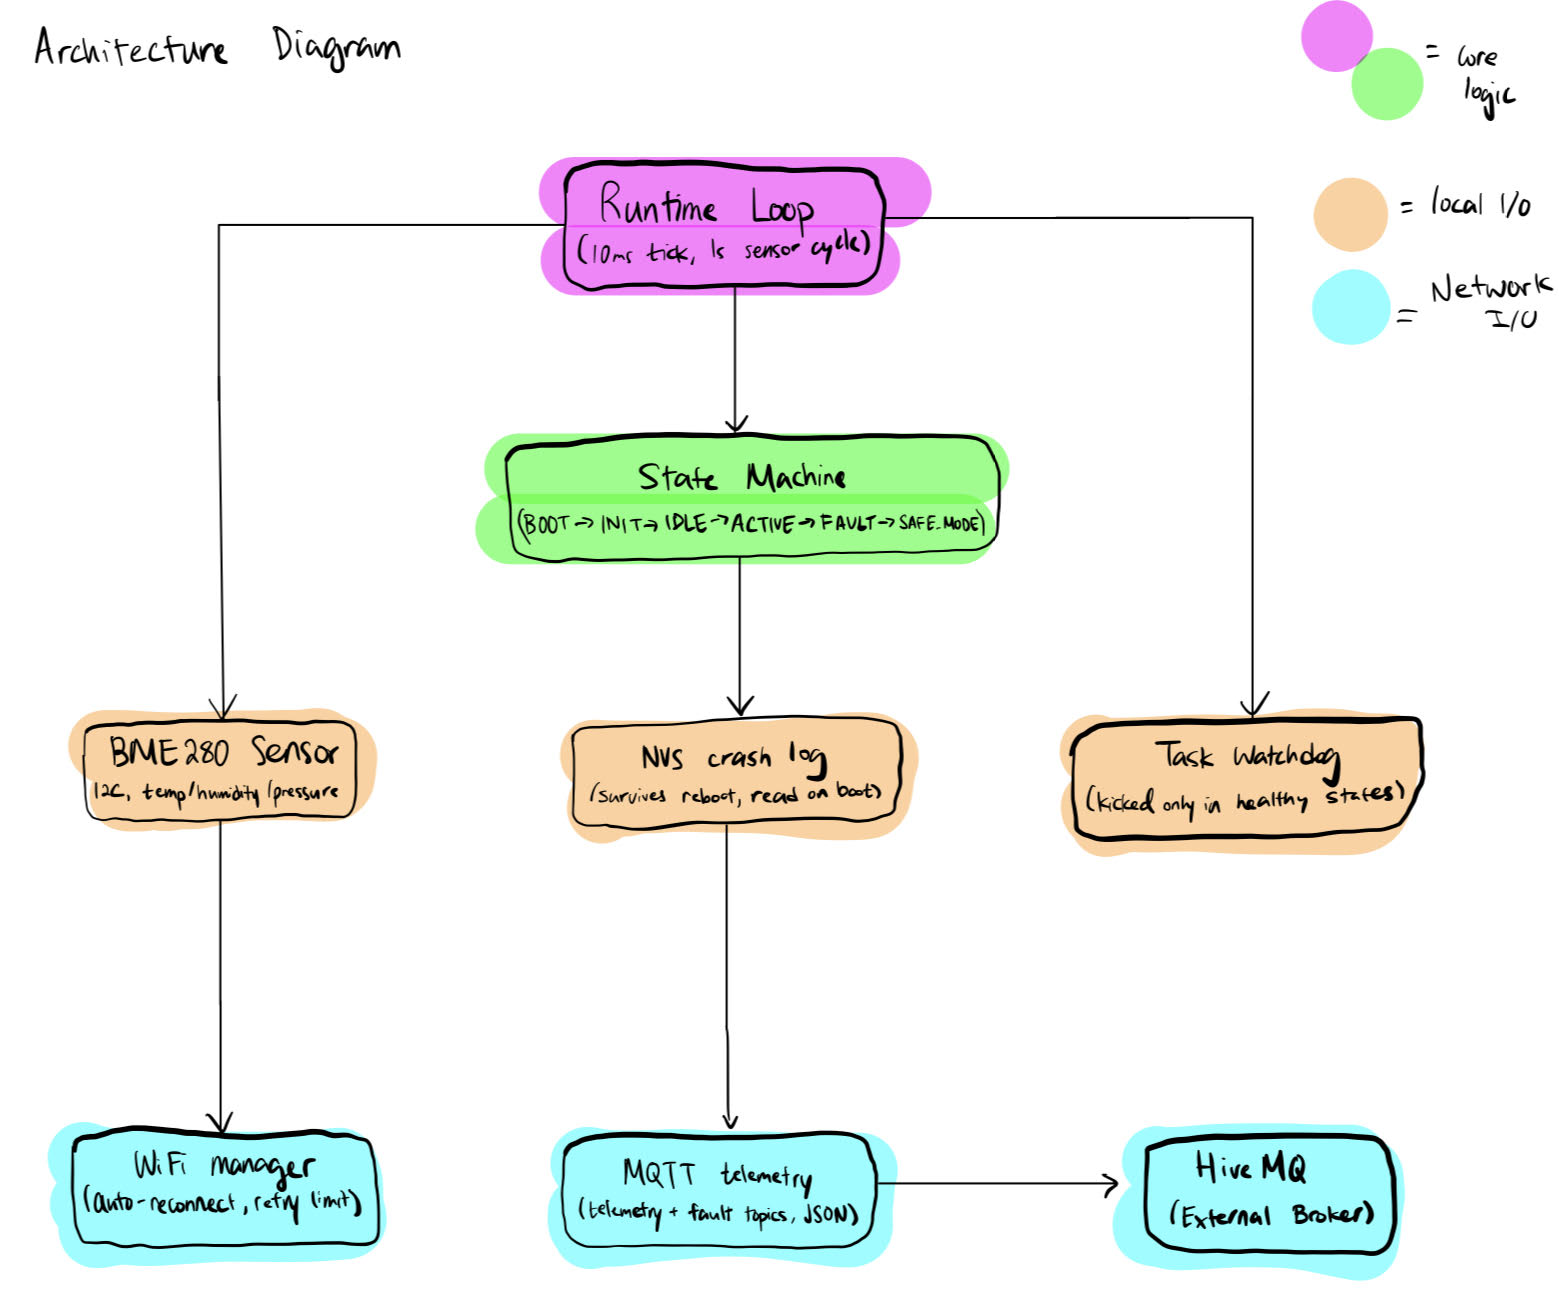
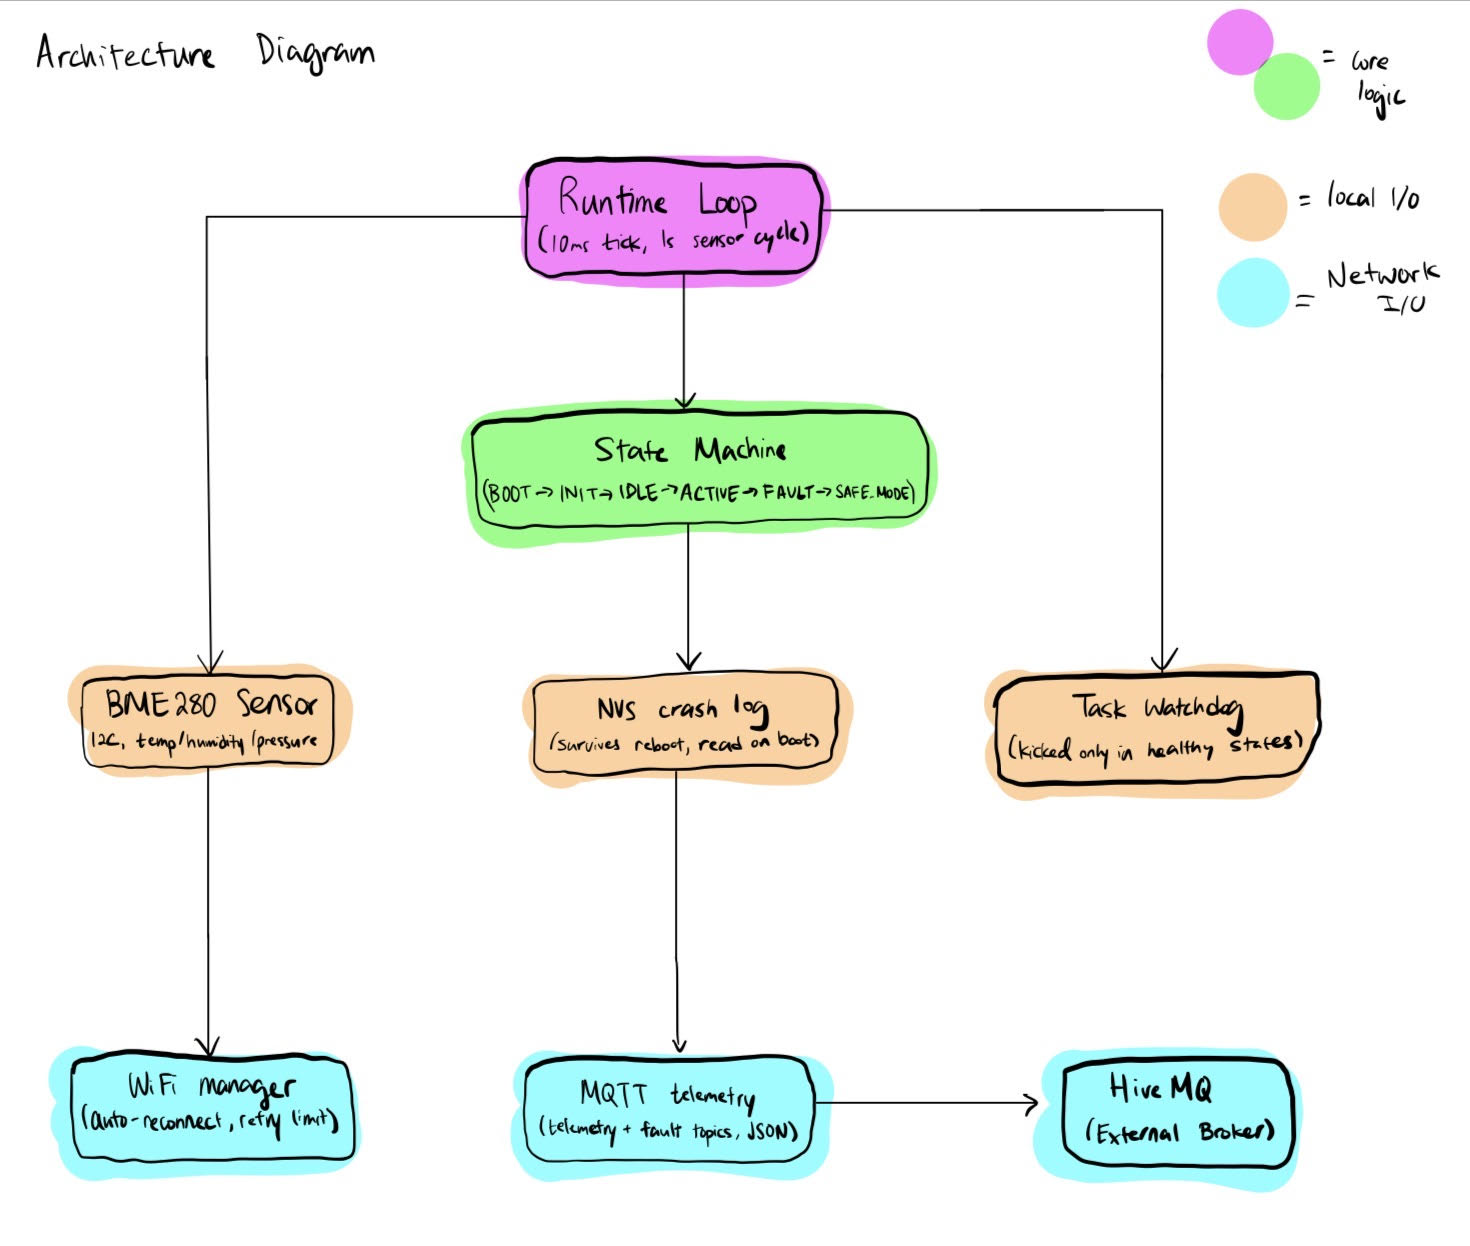
doc: add demo video in README

diff --git a/README.md b/README.md
@@ -2,9 +2,16 @@
 
 A fault-tolerant ESP32 firmware node built on ESP-IDF, designed to run unattended and recover from sensor failures, and report telemetry over MQTT.
 
-## Demo
+## Demo (redirect to Youtube)
 
-[to be added soon...]
+[![Watch the video](https://img.youtube.com/vi/mXEJEMtZkKM/maxresdefault.jpg)](https://youtu.be/mXEJEMtZkKM)
+
+## Features
+- Temperature, humidity, and pressure sensor(BM280) integration over I2C
+- Fault escalation: 3 consecutive sensor failures trigger SAFE_MODE and a controlled reboot
+- Crash records persisted to NVS flash - survive power loss, printed on next boot
+- MQTT telemetry published every second ('headless_node_tjcdy/telemetry', 'headless_node_tjcdy/fault')
+- WiFi auto-reconnect with bounded retry and graceful disconnect
 
 ## Architecture
 
@@ -15,13 +22,6 @@ A fault-tolerant ESP32 firmware node built on ESP-IDF, designed to run unattende
 ![State diagram](docs/state_diagram.jpg)
 
 The watchdog is intentionally NOT kicked while in FAULT or SAFE_MODE. If the system can't recover within the watchdog window, the hardware forces a reboot.
-
-## Features
-- Temperature, humidity, and pressure sensor(BM280) integration over I2C
-- Fault escalation: 3 consecutive sensor failures trigger SAFE_MODE and a controlled reboot
-- Crash records persisted to NVS flash - survive power loss, printed on next boot
-- MQTT telemetry published every second ('headless_node_tjcdy/telemetry', 'headless_node_tjcdy/fault')
-- WiFi auto-reconnect with bounded retry and graceful disconnect
 
 ## Hardware
 - ESP32-WROOM-32E
@@ -38,8 +38,12 @@ idf.py -p <PORT> flash monitor
 \`\`\`
 
 ## What I learned
-I tested my fault-handling logic by removing my BM280 sensor mid-run, but the Task Watchdog Timer fired before my fault logic could finish executing. I realized that a blocking I2C call inside the main loop was starving the watchdog timer before the fault-handling logic ever got a chance to run. I resolved this by increasing the watchdog timeout from 5 seconds to 30 seconds, and by tightening the state system during a fault 
-from: FAULT -> IDLE -> FAULT -> IDLE -> FAULT -> IDLE -> SAFE_MODE 
-to: FAULT -> FAULT -> FAULT -> SAFE_MODE 
+I tested my fault-handling logic by removing my BM280 sensor mid-run, but the Task Watchdog Timer fired before my fault logic could finish executing. I found that the blocking I2C call inside the main loop was starving the watchdog timer before the fault-handling logic ever got a chance to run. I resolved this by increasing the watchdog timeout from 5 seconds to 30 seconds, and by tightening the state system during a fault from:  
+
+FAULT -> IDLE -> FAULT -> IDLE -> FAULT -> IDLE -> SAFE_MODE   
+
+to: 
+
+FAULT -> FAULT -> FAULT -> SAFE_MODE 
 
 This taught me to think about timing budgets when designing for a watchdog-supervised system.
